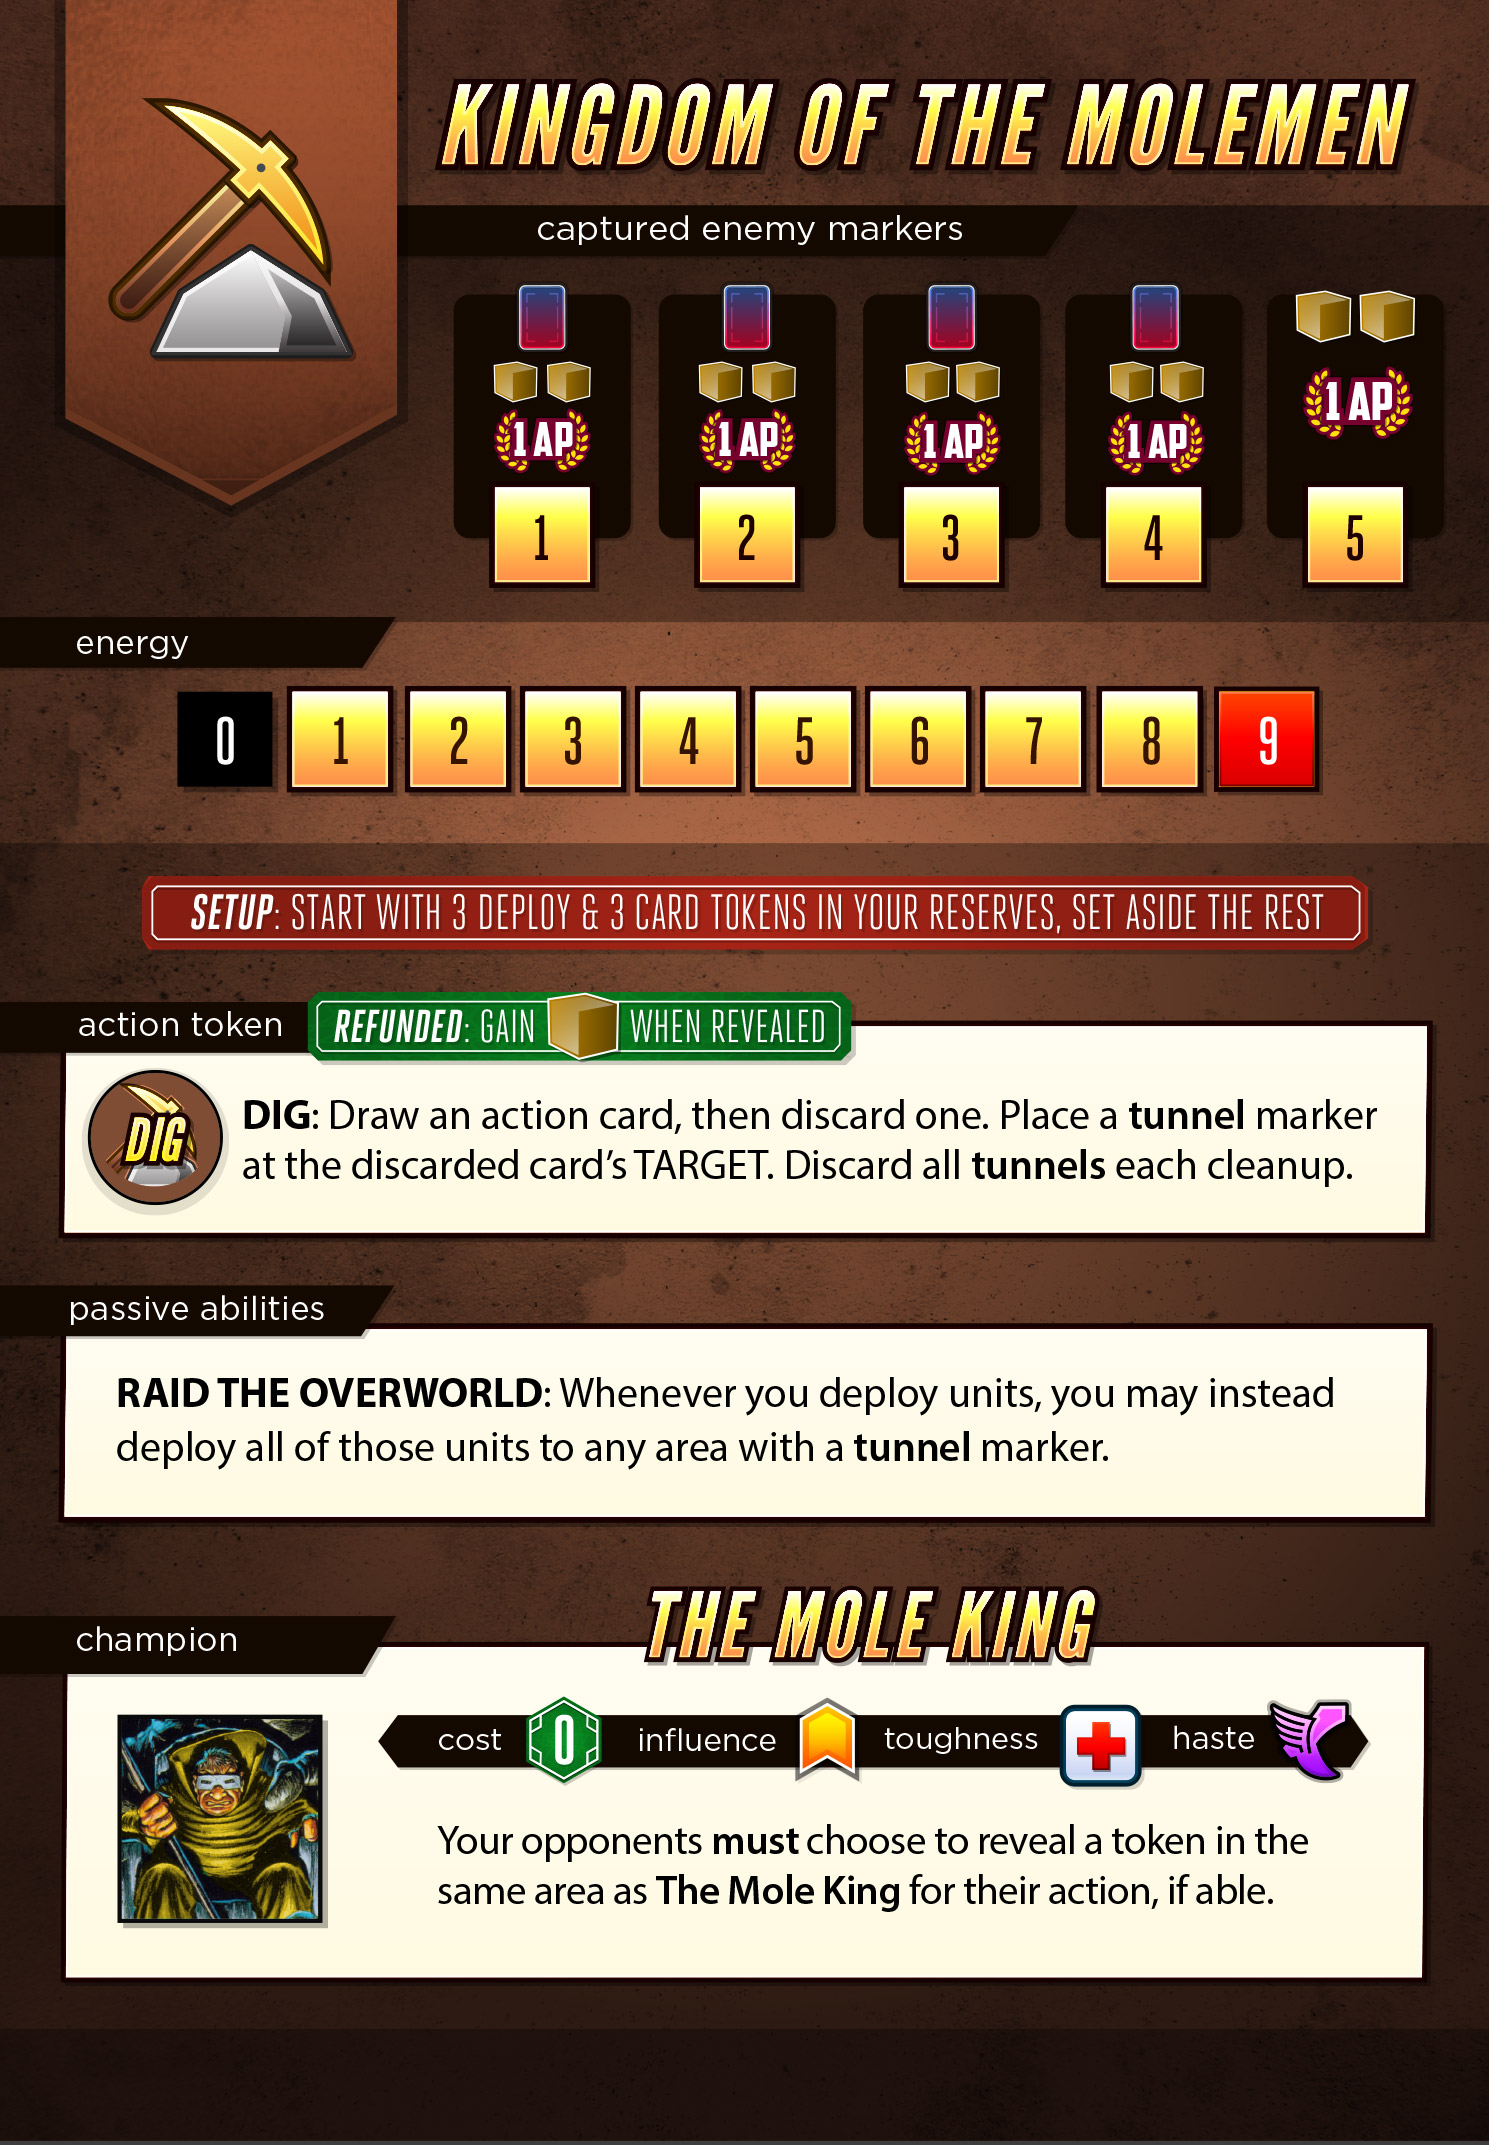
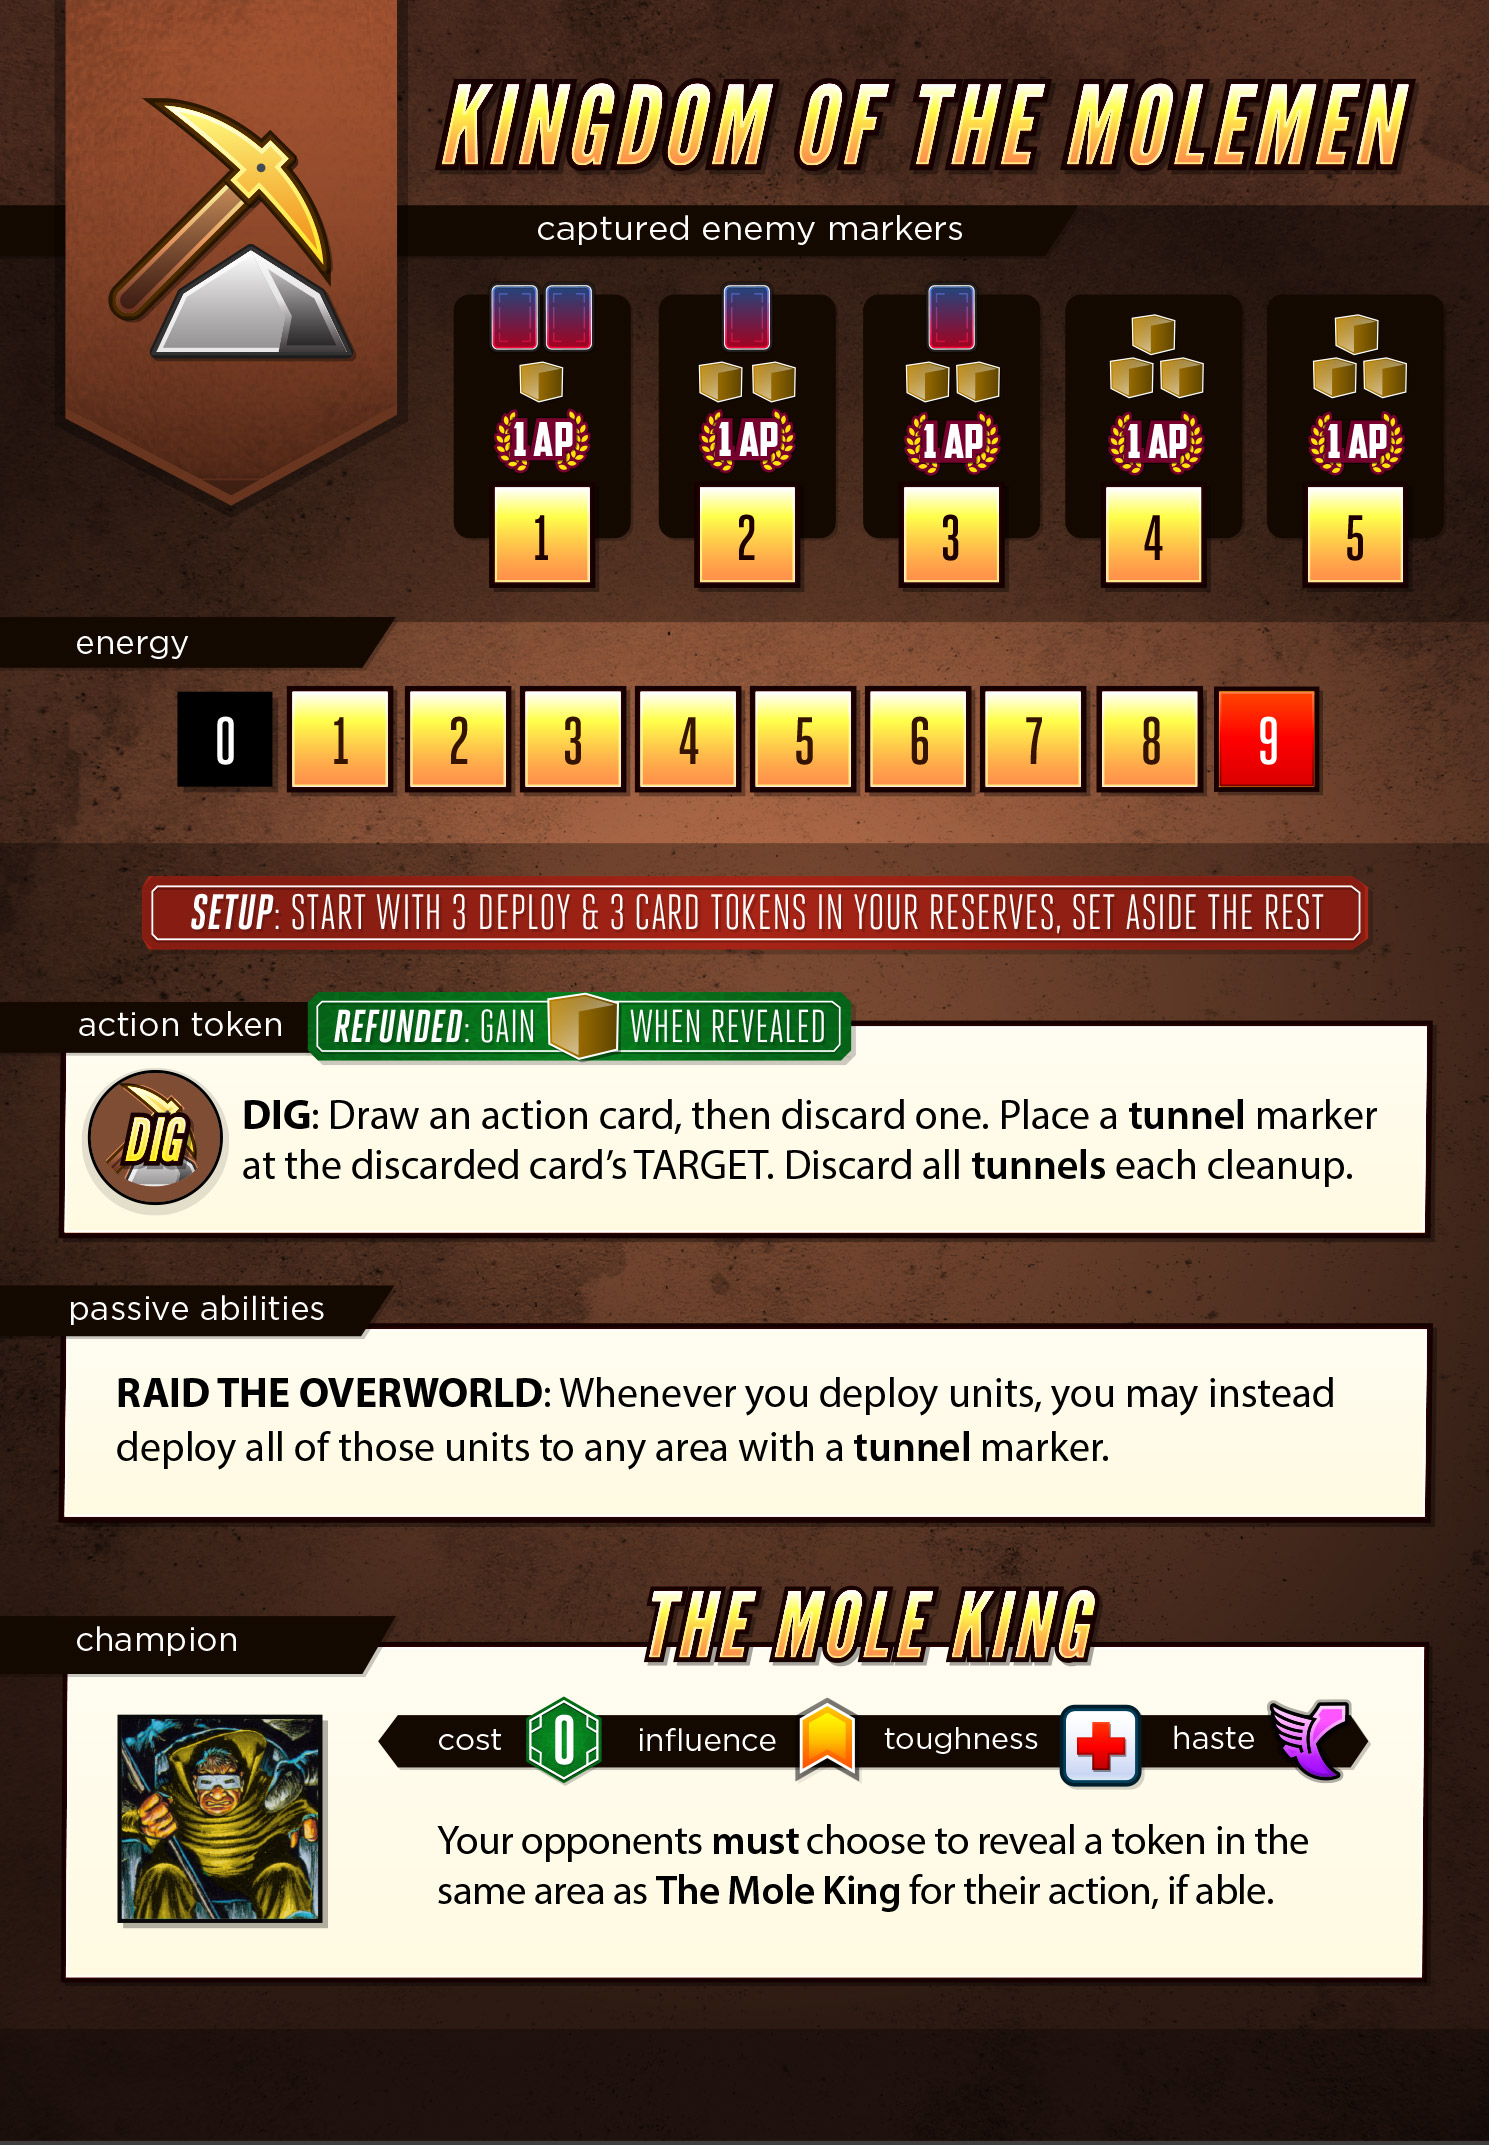
MOLEMEN: Adjust capture rewards

Changed region(s): [[0.865, 0.1249, 0.9577, 0.2186], [0.3089, 0.1249, 0.4016, 0.1874], [0.7414, 0.1249, 0.8032, 0.1874]]

diff --git a/server/classes/factions/Molemen.js b/server/classes/factions/Molemen.js
@@ -14,11 +14,11 @@ class Molemen extends Faction {
         };
 
         this.capturedRewards = [
+            { ap : 1, cards : 2, resources: 1 },
             { ap : 1, cards : 1, resources: 2 },
             { ap : 1, cards : 1, resources: 2 },
-            { ap : 1, cards : 1, resources: 2 },
-            { ap : 1, cards : 1, resources: 2 },
-            { ap : 1, resources: 2 },
+            { ap : 1, resources: 3 },
+            { ap : 1, resources: 3 },
         ];
 
         //data
